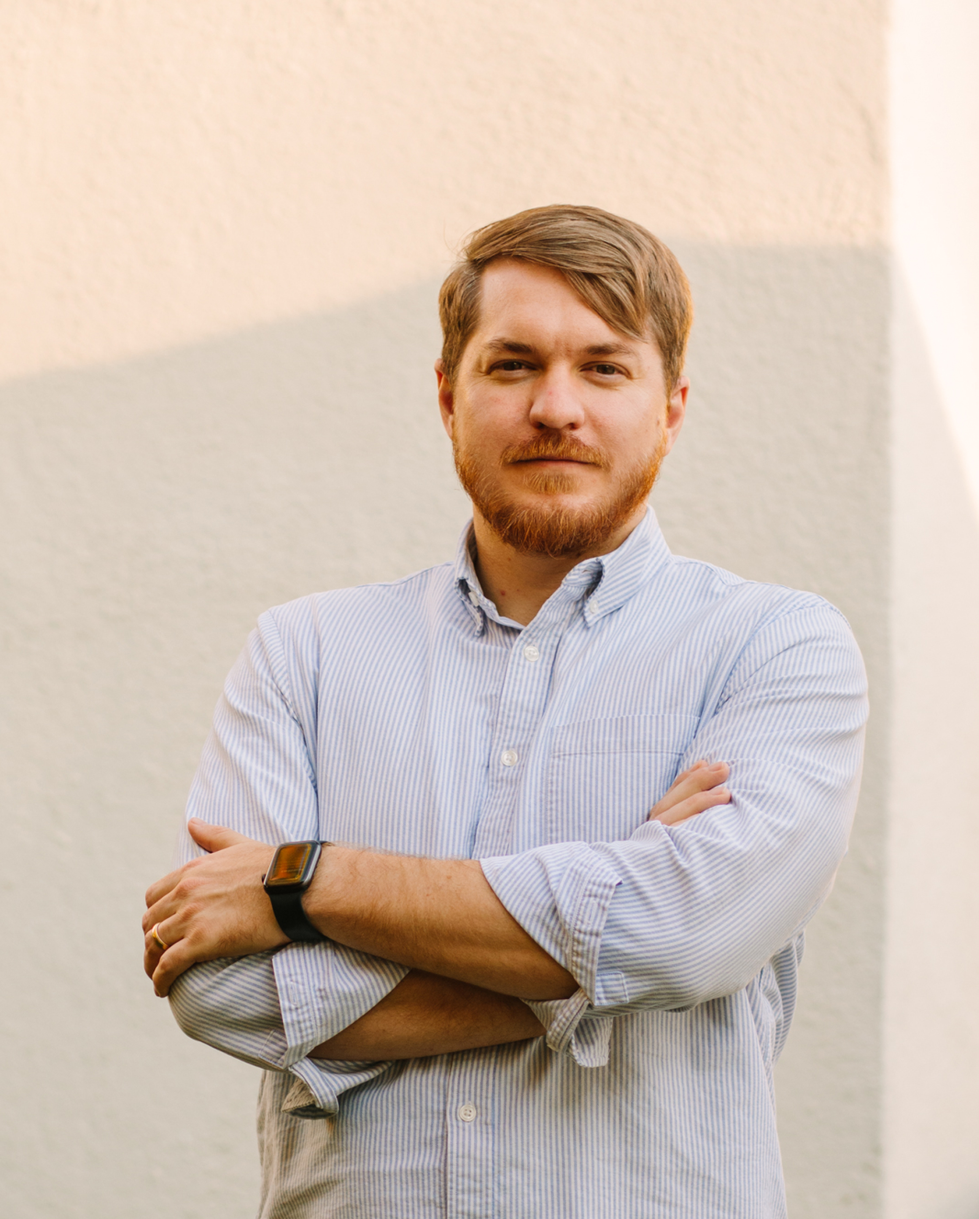
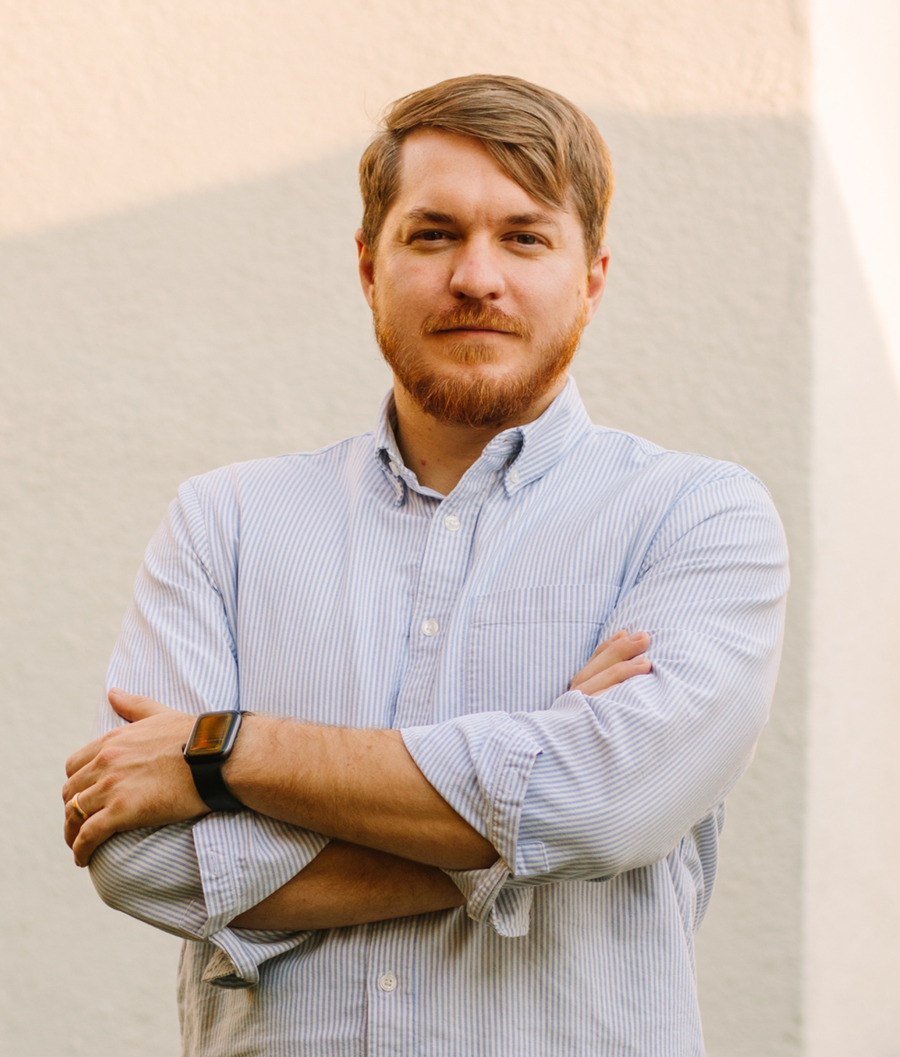
Refine portrait photo and card styling
- Switch main portrait to new nbaschez-full.jpg (replacing previous version)
- Fix right-side gap on image crop by switching to object-position instead of width+translate hack
- Add select-none to the portrait image
- Remove old nbaschez-full.jpg
- Reduce outer white card border radius to 4px
- Minor updates to work pages and projects list

Includes debug screenshots from crop investigation.

diff --git a/src/components/projects-list.tsx b/src/components/projects-list.tsx
@@ -78,18 +78,18 @@ export function ProjectsList({ className }: ProjectsListProps) {
     <div className={className}>
       <div className="space-y-12">
         {projects.map((project) => (
-          <div key={project.id} className="group flex flex-col sm:flex-row gap-5 sm:gap-7">
+          <div key={project.id} className="group flex flex-col sm:flex-row gap-6 sm:gap-8">
             {/* Visual / Image slot */}
-            <div className="relative w-full sm:w-40 md:w-44 flex-shrink-0 overflow-hidden rounded-[4px] border border-border/60 bg-muted/40 h-28 sm:h-24 md:h-[102px] transition-all group-hover:border-border/80 group-hover:bg-muted/60">
+            <div className="relative w-full sm:w-64 md:w-72 lg:w-80 flex-shrink-0 overflow-hidden rounded-[4px] border border-border/60 bg-muted/40 h-40 sm:h-36 md:h-40 lg:h-[170px] transition-all group-hover:border-border/80 group-hover:bg-muted/60">
               {/* Left accent bar */}
               <div className="absolute left-0 top-0 bottom-0 w-px bg-foreground/10" />
 
-              <div className="absolute inset-0 flex items-center justify-center px-5">
+              <div className="absolute inset-0 flex items-center justify-center px-6">
                 <div className="text-center">
-                  <div className="font-mono text-[9px] tracking-[3px] text-muted-foreground/40 mb-1">
+                  <div className="font-mono text-[10px] tracking-[3px] text-muted-foreground/40 mb-1.5">
                     {project.year}
                   </div>
-                  <div className="font-semibold text-[13px] tracking-[-0.1px] text-foreground/75 leading-none">
+                  <div className="font-semibold text-sm md:text-base tracking-[-0.1px] text-foreground/75 leading-none">
                     {project.title.toUpperCase()}
                   </div>
                 </div>
@@ -118,10 +118,6 @@ export function ProjectsList({ className }: ProjectsListProps) {
           </div>
         ))}
       </div>
-
-      <p className="pt-12 text-sm text-muted-foreground">
-        More projects and details coming soon.
-      </p>
     </div>
   );
 }

diff --git a/src/components/portrait.tsx b/src/components/portrait.tsx
@@ -158,8 +158,9 @@ export function Portrait({ onLoad }: PortraitProps) {
               src={nbaschezFull}
               alt="Nathan Baschez"
               width={550}
-              height={684}
-              className="w-full h-auto object-cover"
+              height={646}
+              className="w-full h-auto object-cover select-none"
+              style={{ objectPosition: '10% 50%' }}
               priority
               placeholder="blur"
               onLoad={handleLoad}

diff --git a/src/app/@modal/(.)work/page.tsx b/src/app/@modal/(.)work/page.tsx
@@ -18,11 +18,6 @@ export default function WorkModal() {
 
       <Modal title="Work" onClose={() => router.push("/")} contentMaxWidth="max-w-3xl">
         <div className="max-w-3xl mx-auto">
-          <p className="text-muted-foreground mb-10 text-lg">
-            Selected projects and companies I’ve built or helped build, in
-            reverse chronological order.
-          </p>
-
           <ProjectsList />
         </div>
       </Modal>
